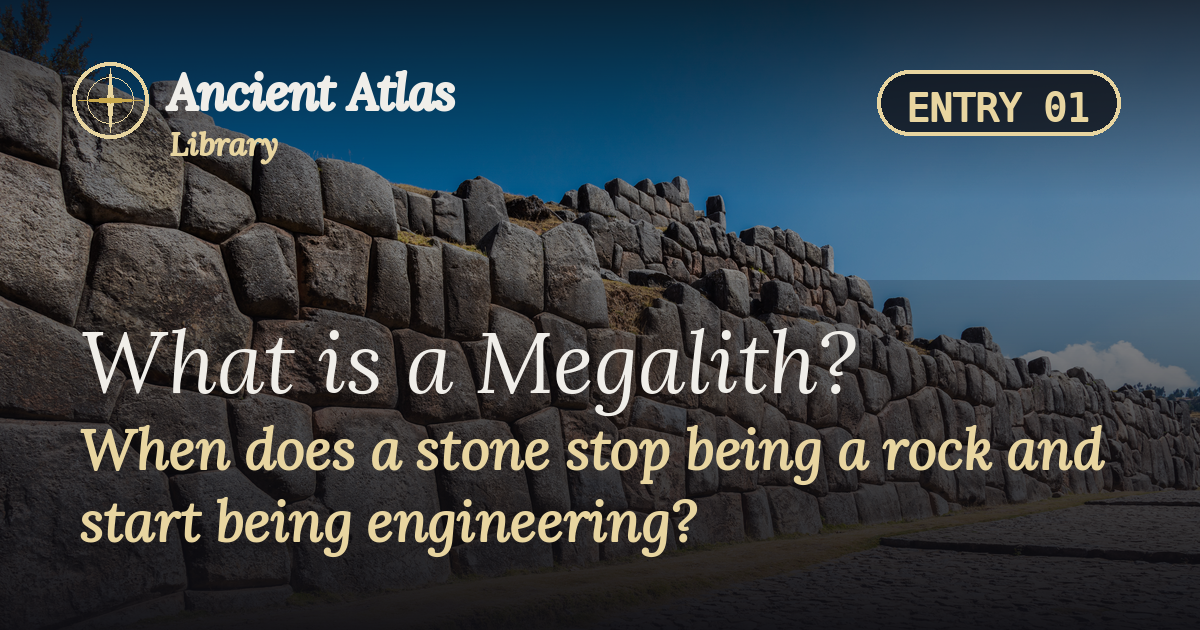
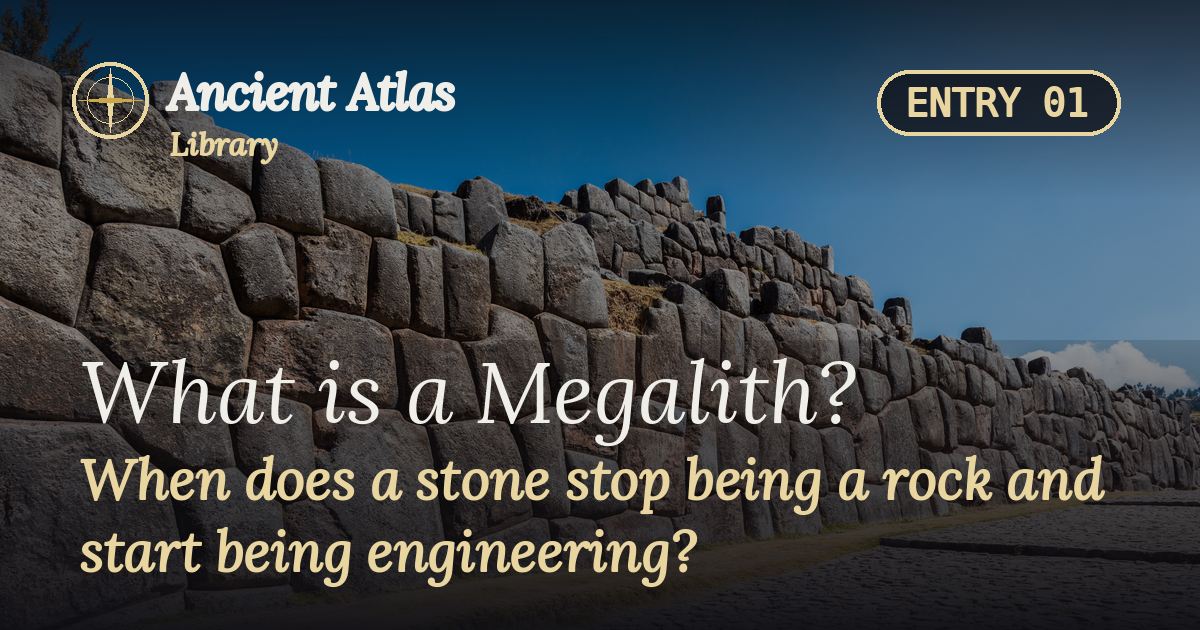
OG cards v4.1: center ENTRY pill text + push title down 30px
Jeff feedback on the v4 OG cards:
(1) ENTRY 0x text reads left-aligned inside the pill — fixed with PIL
    anchor='mm' so geometric center of text lands on geometric center
    of pill. Scales to any ENTRY number including double-digit.
(2) Title block needs breathing room from the brand chrome — photo is
    enigmatic and worth revealing. Moved title block down 30px
    (bottom margin 70 → 40) and shifted bottom darkening gradient
    start from y=280 → y=340 so the photo's middle is clearer.

Applied to both compose_photo_card and compose_atmospheric_vector for
consistency on future entries without photos.

Changed region(s): [[0.0308, 0.4524, 1.0, 0.9349], [0.74, 0.1206, 0.925, 0.2111]]

diff --git a/scripts/generate-library-og-images.py b/scripts/generate-library-og-images.py
@@ -124,9 +124,10 @@ def apply_gradient_overlay(img):
     for y in range(0, 200):
         alpha = int(180 * (1 - y / 200))
         od.line([(0, y), (W, y)], fill=(13, 13, 18, alpha))
-    # Bottom section: strong dark for title text
-    for y in range(280, H):
-        progress = (y - 280) / (H - 280)
+    # Bottom section: v4.1 — band starts later (340 instead of 280) so
+    # more of the enigmatic photo shows above the title block.
+    for y in range(340, H):
+        progress = (y - 340) / (H - 340)
         alpha = int(40 + 200 * progress)
         od.line([(0, y), (W, y)], fill=(13, 13, 18, min(255, alpha)))
     return Image.alpha_composite(img.convert('RGBA'), overlay).convert('RGB')
@@ -176,22 +177,27 @@ def compose_photo_card(photo_path, title, subtitle, entry_num):
     draw.text((170, 122), "Library", font=ITALIC_FONT, fill=CHAMPAGNE_PALE,
               stroke_width=1, stroke_fill=CHAMPAGNE_PALE)
 
-    # Entry tag pill — doubled per Jeff's v4 spec
+    # Entry tag pill — doubled per Jeff's v4, text centered via anchor='mm' v4.1
     if entry_num is not None:
         tag = f"ENTRY {entry_num:02d}"
         pad_x, pad_y = 30, 18
         bbox = draw.textbbox((0, 0), tag, font=MONO_TAG)
         tw, th = bbox[2] - bbox[0], bbox[3] - bbox[1]
-        x0 = W - 80 - tw - pad_x * 2
+        pill_w = tw + pad_x * 2
+        pill_h = th + pad_y * 2
+        x0 = W - 80 - pill_w
         y0 = 70
         draw.rounded_rectangle(
-            (x0, y0, x0 + tw + pad_x * 2, y0 + th + pad_y * 2),
+            (x0, y0, x0 + pill_w, y0 + pill_h),
             radius=38,
             outline=CHAMPAGNE_PALE,
             fill=(13, 13, 18, 180),
             width=4,
         )
-        draw.text((x0 + pad_x, y0 + pad_y - 3), tag,
+        # anchor='mm' = middle-middle, so the text geometric center
+        # lands exactly on the pill geometric center
+        draw.text((x0 + pill_w // 2, y0 + pill_h // 2), tag,
+                  anchor='mm',
                   font=MONO_TAG, fill=CHAMPAGNE_PALE,
                   stroke_width=1, stroke_fill=CHAMPAGNE_PALE)
 
@@ -206,7 +212,9 @@ def compose_photo_card(photo_path, title, subtitle, entry_num):
     else:
         sub_lines = []
     total_h = line_h * len(title_lines) + (sub_line_h * len(sub_lines) + 18 if sub_lines else 0)
-    y = H - 70 - total_h
+    # v4.1: tightened bottom margin from 70 → 40 so the title block sits
+    # lower on the card and more of the enigmatic photo shows above it.
+    y = H - 40 - total_h
     for line in title_lines:
         draw.text((80, y), line, font=use_font, fill=IVORY)
         y += line_h
@@ -248,19 +256,22 @@ def compose_atmospheric_vector(title, subtitle, entry_num, mark_fn):
               stroke_width=2, stroke_fill=IVORY)
     draw.text((170, 122), "Library", font=ITALIC_FONT, fill=CHAMPAGNE_PALE,
               stroke_width=1, stroke_fill=CHAMPAGNE_PALE)
-    # Entry tag — doubled v4
+    # Entry tag — doubled v4, centered v4.1
     if entry_num is not None:
         tag = f"ENTRY {entry_num:02d}"
         pad_x, pad_y = 30, 18
         bbox = draw.textbbox((0, 0), tag, font=MONO_TAG)
         tw, th = bbox[2] - bbox[0], bbox[3] - bbox[1]
-        x0 = W - 80 - tw - pad_x * 2
+        pill_w = tw + pad_x * 2
+        pill_h = th + pad_y * 2
+        x0 = W - 80 - pill_w
         y0 = 70
         draw.rounded_rectangle(
-            (x0, y0, x0 + tw + pad_x * 2, y0 + th + pad_y * 2),
+            (x0, y0, x0 + pill_w, y0 + pill_h),
             radius=38, outline=CHAMPAGNE_PALE, width=4,
         )
-        draw.text((x0 + pad_x, y0 + pad_y - 3), tag,
+        draw.text((x0 + pill_w // 2, y0 + pill_h // 2), tag,
+                  anchor='mm',
                   font=MONO_TAG, fill=CHAMPAGNE_PALE,
                   stroke_width=1, stroke_fill=CHAMPAGNE_PALE)
 
@@ -357,7 +368,7 @@ def compose_hub_card():
     sub_line_h = 72
     sub_lines = wrap_text(subtitle, SUBTITLE_FONT, 1040, draw)
     total_h = line_h * len(title_lines) + sub_line_h * len(sub_lines) + 18
-    y = H - 70 - total_h
+    y = H - 40 - total_h
     for line in title_lines:
         draw.text((80, y), line, font=use_font, fill=IVORY)
         y += line_h
